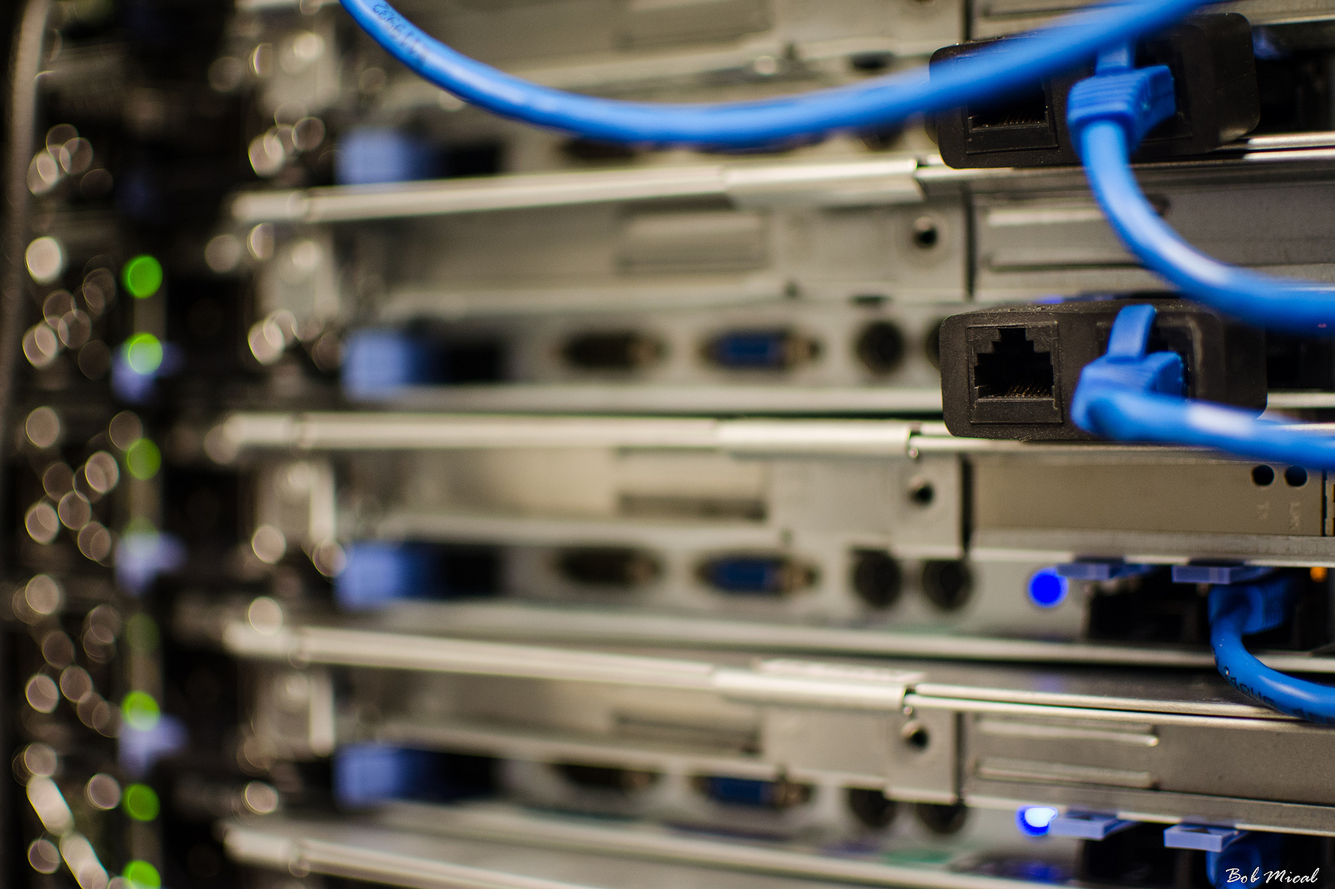
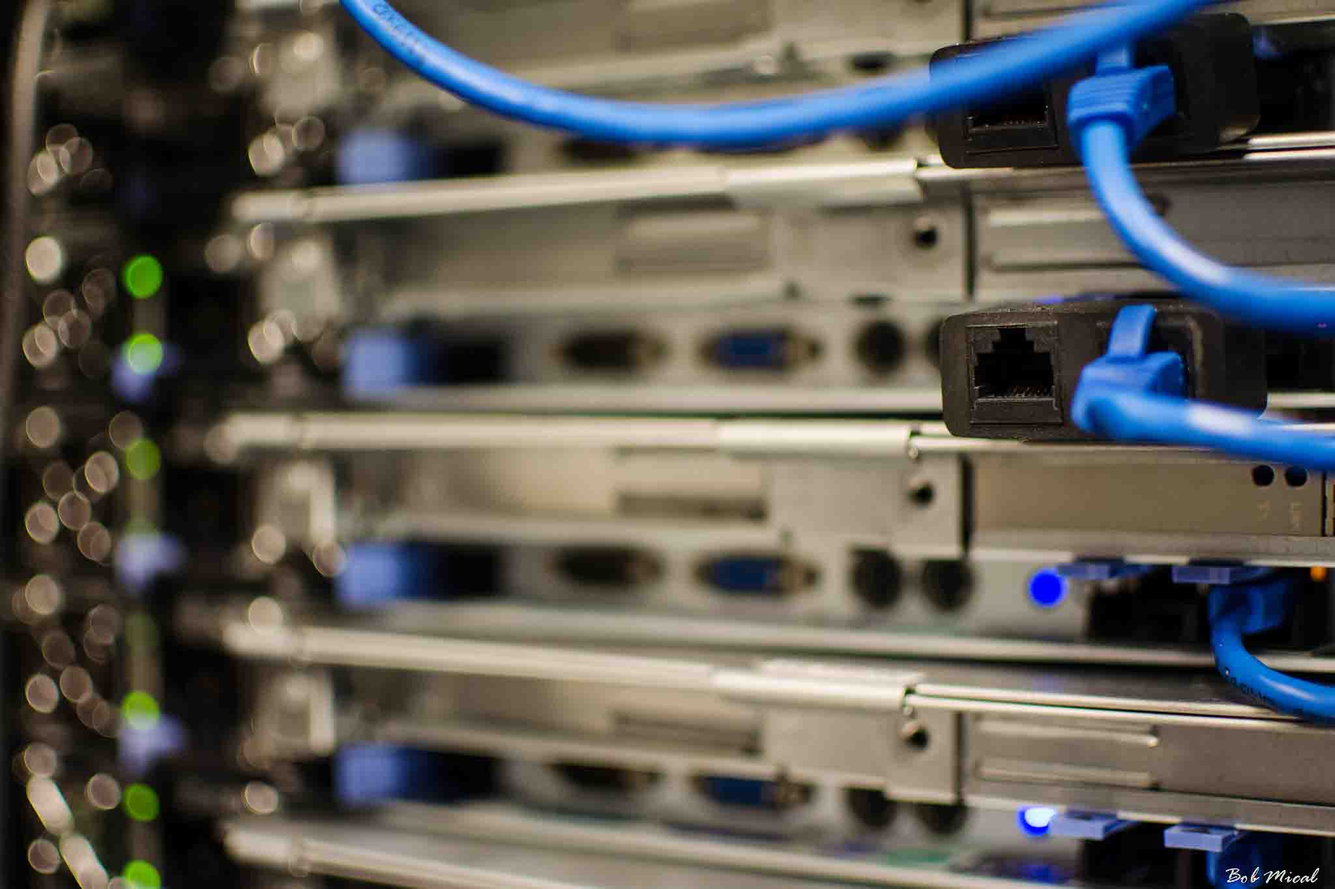
Login background image updated

Changed region(s): [[0.9062, 0.9846, 0.9688, 1.0]]

diff --git a/v2/assets/css/style.css b/v2/assets/css/style.css
@@ -309,13 +309,14 @@ li.incomplete:before, li.incomplete .step {
     padding-left: 2px;
 }
 .infobox {
-    width: 260px !important;
-    height: 160px !important;
+    width: 300px !important;
+    height: 180px !important;
     margin-right: 10px;
     margin-bottom: 10px;
     background: rgba(0, 0, 0, 0.07);
     border: 2px dotted #ddd;
     border-radius: 7px;
+    padding-top: 18px;
 }
 .infobox:hover {
     background: rgba(0, 0, 0, 0.2)
@@ -664,7 +665,7 @@ div.center-align {
 }
 .bkg-fullscreen {
     /*background-color:#EFF3F8;*/
-    background-image: url(../img/datacenter.jpg);
+    background-image: url(../img/datacenter2.jpg);
     position: fixed;
     right: 0px;
     bottom: 0px;
